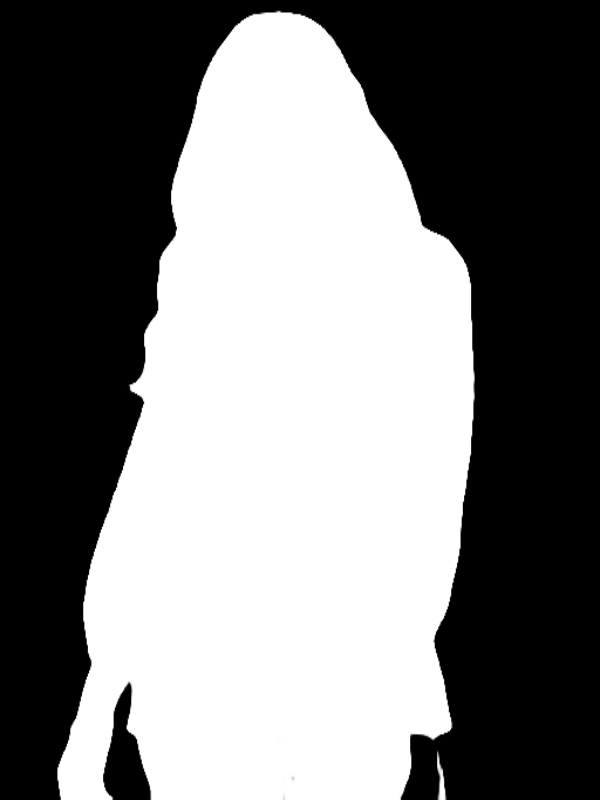
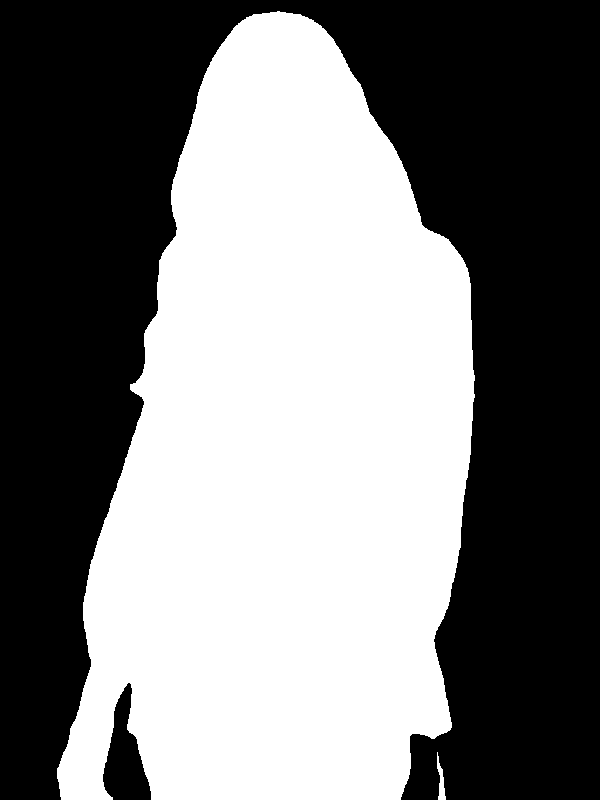
threshold for cleaner mask

Changed region(s): [[0.72, 0.9375, 0.75, 1.0], [0.21, 0.4688, 0.24, 0.5]]

diff --git a/run.py b/run.py
@@ -107,6 +107,8 @@ if __name__ == "__main__":
     predicted_mask = np.expand_dims(predicted_mask, axis=-1)
     # print(predicted_image.shape)
 
-    #  predicted maks contains range of 0 and 1
+    # creaing the threshold
+    predicted_mask = predicted_mask > 0.5
+    # predicted maks contains range of 0 and 1
     # multiplying it by 255 to get the range of 0 to 255
     cv.imwrite(f"remove_background/{image_name}.png", predicted_mask * 255)
